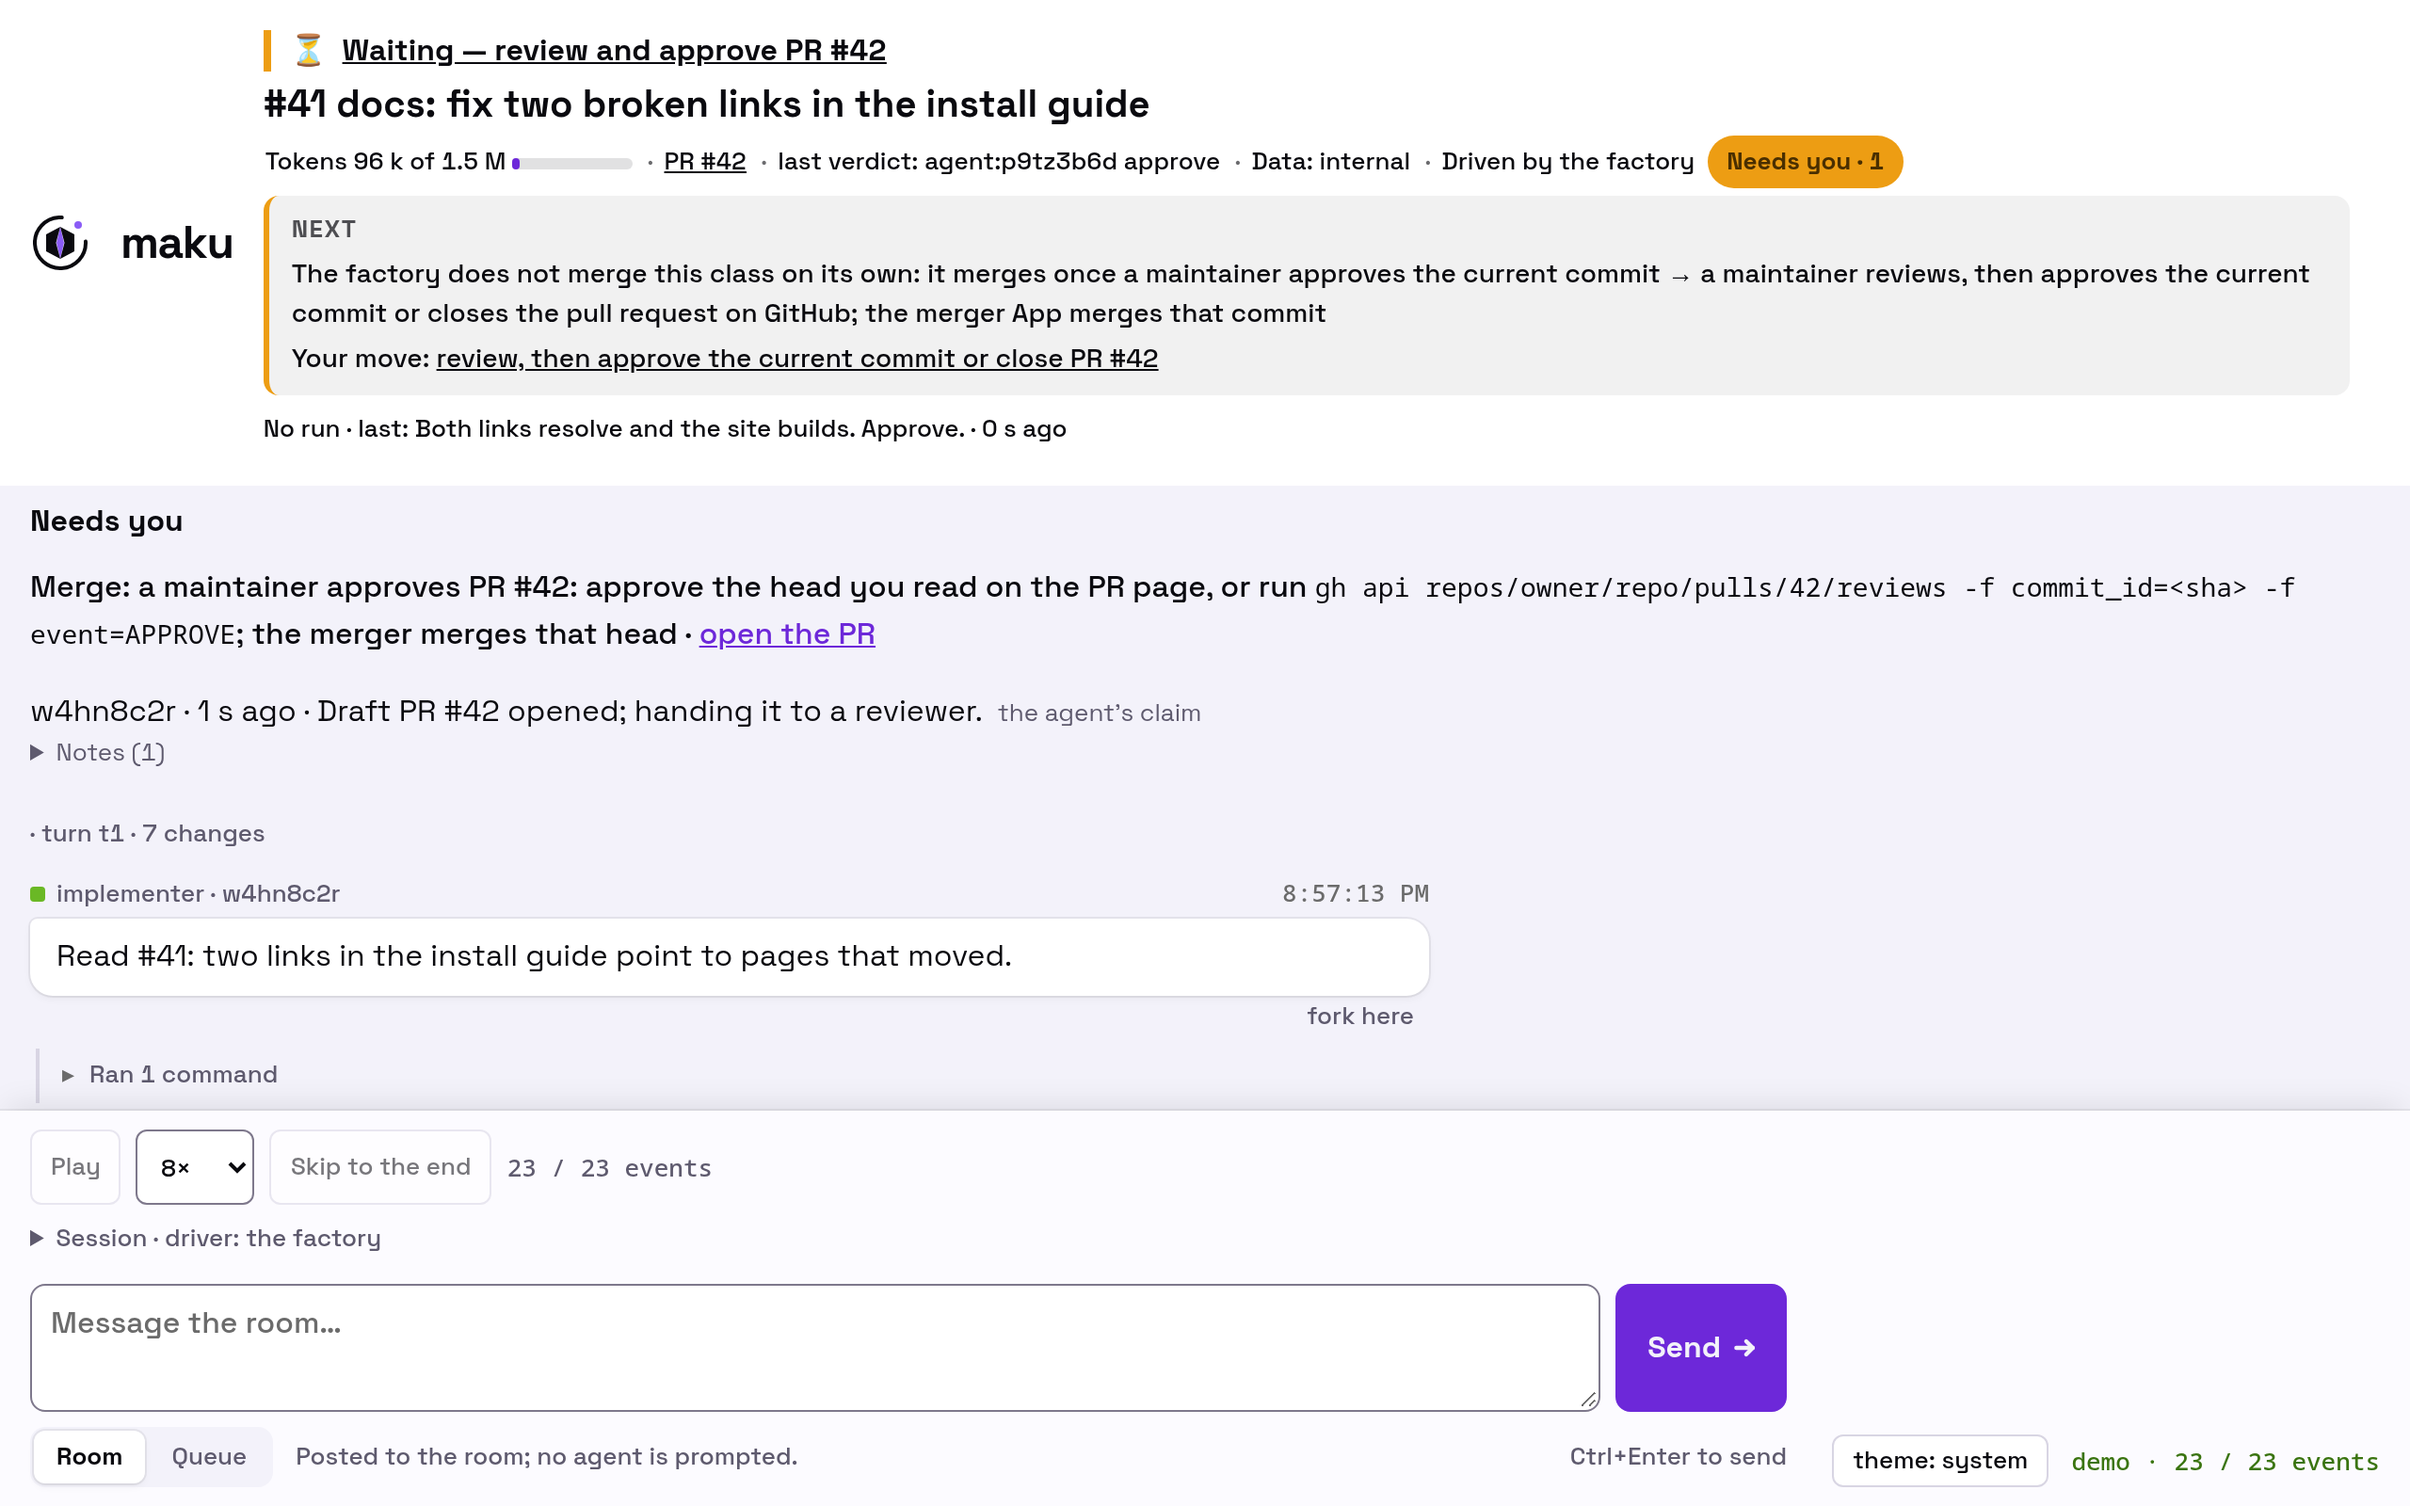
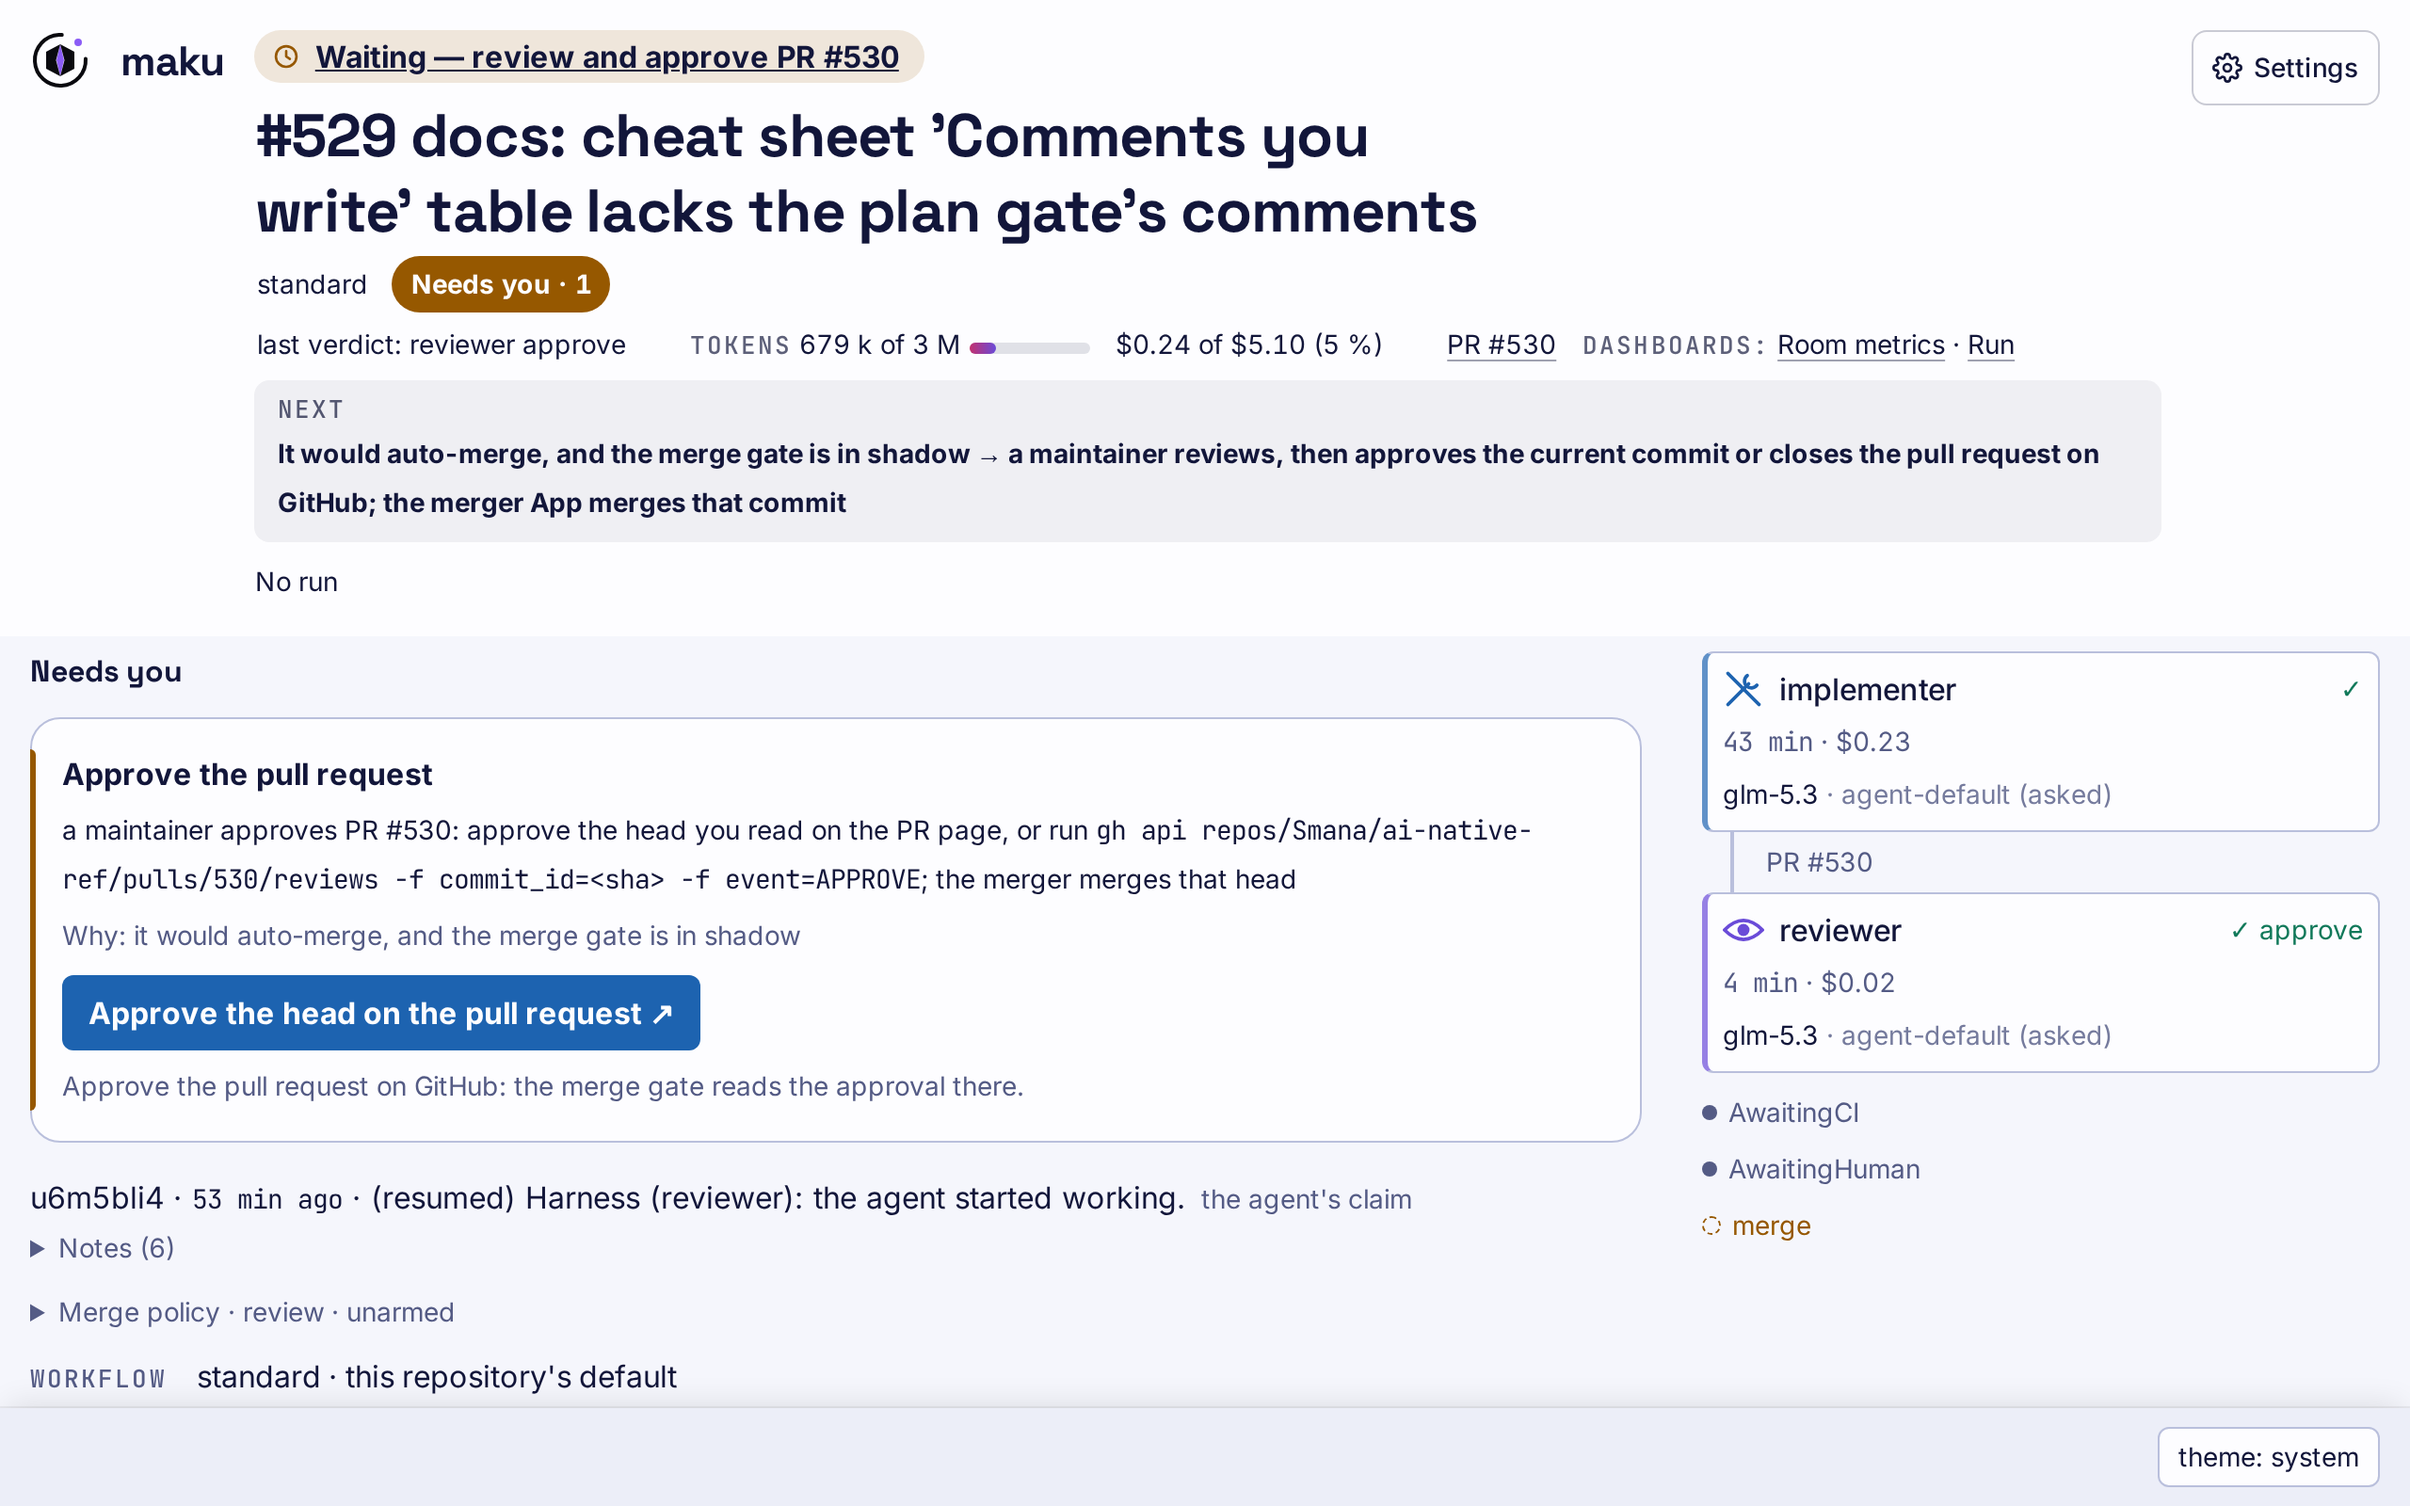
docs(maku): refresh the room and room-list screenshots for Maku v0.54
Both Maku article screenshots (EN and FR) now come from a live gcp-0 room on
Maku v0.54.5 instead of the demo replay: the room waiting for approval shows
the Approve card and each stage's cost, and the room list shows New task as the
primary action. Alt text and captions follow.

diff --git a/content/fr/post/series/agentic_ai/agent-factory-2-maku/index.md b/content/fr/post/series/agentic_ai/agent-factory-2-maku/index.md
@@ -139,12 +139,12 @@ Pourquoi ne pas se contenter des logs du pod ? Parce qu'ils disparaissent avec l
 
 Dans la Web UI, l'encadré **NEXT** dit en une phrase ce qui est attendu de vous :
 
-{{< img src="maku-room.png" alt="Une room Maku qui attend un mainteneur : l'état « Waiting — review and approve PR #42 », le budget en tokens, le dernier verdict du reviewer, l'encadré NEXT qui dit que l'approbation du commit courant vaut merge, l'action exacte sous « Needs you », puis le fil des événements de l'implementer" width="1100" caption="Une room qui attend mon approbation : la prochaine étape, l'action à faire, et le fil des événements du run (à manipuler dans la [démo interactive](https://blog.ogenki.io/maku/))." >}}
+{{< img src="maku-room.png" alt="Une room Maku qui attend un mainteneur : l'état « Waiting — review and approve PR #530 », le budget en tokens et en dollars, le verdict approve du reviewer, l'encadré NEXT qui explique que le merge gate est en shadow et qu'un mainteneur approuve le commit courant, la carte « Approve the pull request » sous « Needs you », et le rail avec l'implementer et le reviewer, chacun avec sa durée et son coût" width="1100" caption="Une room qui attend mon approbation : la prochaine étape, l'action à faire, et ce qu'a coûté chaque étape (à manipuler dans la [démo interactive](https://blog.ogenki.io/maku/))." >}}
 <br>
 
 Et quand plusieurs tâches tournent en parallèle, celles qui ont besoin de vous remontent en tête de liste :
 
-{{< img src="maku-rooms.png" alt="La liste des rooms de Maku : les tâches qui attendent un humain portent un badge « Needs you » et remontent en premier, chacune avec son dépôt, son état, sa PR et sa dernière activité" width="1100" caption="La liste des rooms : « Needs you » d'abord." >}}
+{{< img src="maku-rooms.png" alt="La liste des rooms de Maku filtrée sur ce qui m'attend : chaque tâche qui attend un humain porte un badge qui dit pourquoi (review, failed), avec son dépôt, son état, sa PR et sa dernière activité ; New task, en haut à droite, transforme une demande en issue" width="1100" caption="La liste des rooms : « Needs you » d'abord." >}}
 <br>
 
 ## 🚪 Les autres portes d'entrée

diff --git a/content/en/post/series/agentic_ai/agent-factory-2-maku/index.md b/content/en/post/series/agentic_ai/agent-factory-2-maku/index.md
@@ -145,12 +145,12 @@ Why not settle for the pod's logs? Because they disappear as soon as the pod is 
 
 In the Web UI, the **NEXT** box tells you in one sentence what you need to do next:
 
-{{< img src="maku-room.png" alt="A Maku room waiting for a maintainer: the status “Waiting — review and approve PR #42”, the token budget, the reviewer's latest verdict, the NEXT box saying that approving the current commit merges it, the exact action under “Needs you”, then the implementer's event feed" width="1100" caption="A room waiting for my approval: the next step, the action to take, and the run's event feed (try it in the [interactive demo](https://blog.ogenki.io/maku/))." >}}
+{{< img src="maku-room.png" alt="A Maku room waiting for a maintainer: the status “Waiting — review and approve PR #530”, the token and dollar budget, the reviewer's approve verdict, the NEXT box explaining that the merge gate is in shadow so a maintainer approves the current commit, the “Approve the pull request” card under “Needs you”, and the rail with the implementer and the reviewer, each with its time and cost" width="1100" caption="A room waiting for my approval: the next step, the action to take, and what each stage cost (try it in the [interactive demo](https://blog.ogenki.io/maku/))." >}}
 <br>
 
 And when several tasks run in parallel, the ones that need you rise to the top of the list:
 
-{{< img src="maku-rooms.png" alt="The list of Maku rooms: tasks waiting on a human carry a “Needs you” badge and come first, each with its repository, status, PR and latest activity" width="1100" caption="The room list: “Needs you” first." >}}
+{{< img src="maku-rooms.png" alt="The list of Maku rooms filtered to what needs me: each task waiting on a human carries a badge saying why (review, failed), with its repository, status, PR and latest activity; New task, top right, plans a request into an issue" width="1100" caption="The room list: “Needs you” first." >}}
 <br>
 
 ## 🚪 Other ways in
